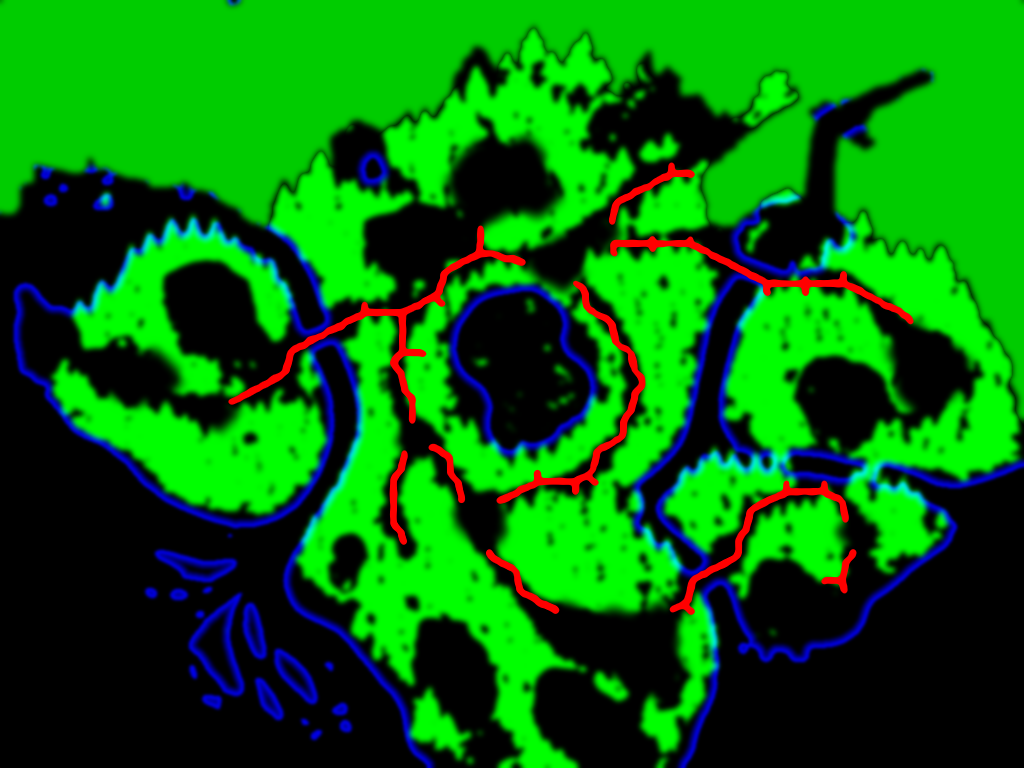
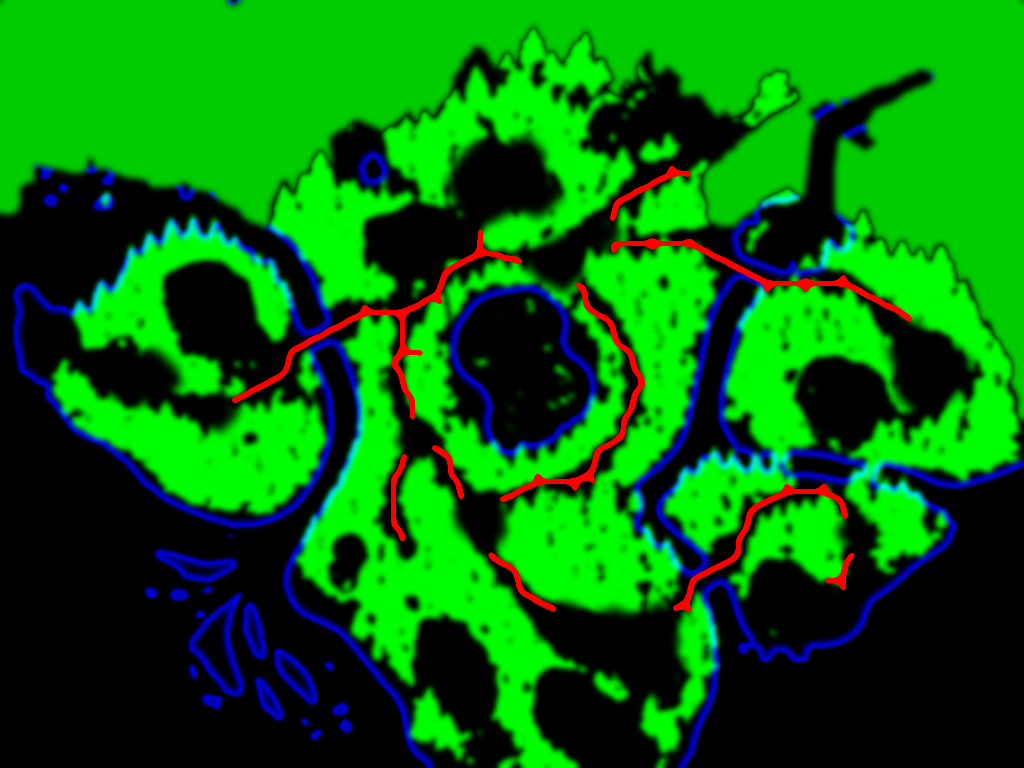
narrow even paths

diff --git a/board3d/board3d.js b/board3d/board3d.js
@@ -8,8 +8,8 @@ import { MapControls } from './map-controls.js?v=5';
 import { GLTFLoader } from './vendor/three/jsm/loaders/GLTFLoader.js';
 import * as SkeletonUtils from './vendor/three/jsm/utils/SkeletonUtils.js';
 import { mergeGeometries } from './vendor/three/jsm/utils/BufferGeometryUtils.js';
-import { buildAtmosphere } from './atmosphere.js?v=1792825844';
-import { buildTerrain } from './terrain.js?v=1792825844';
+import { buildAtmosphere } from './atmosphere.js?v=1792843114';
+import { buildTerrain } from './terrain.js?v=1792843114';
 
 const t0 = 0;   // считаем от начала навигации: HTML, three.js, карта, модели
 const MOVE_RANGE = 6;          // как сумма кубиков в обычном ходу
@@ -129,7 +129,7 @@ const terrain = await buildTerrain({
   groundTextures: {   // этап 2: рисованные текстуры земли (Codex) + карты смешивания (tools/board3d_splat.py)
     grass: './data/tex-grass.webp?v=1', path: './data/tex-path.webp?v=1', forest: './data/tex-forest.webp?v=1',
     beach: './data/tex-beach.webp?v=1', meadow: './data/tex-meadow.webp?v=1', dark: './data/tex-darkforest.webp?v=1',
-    splatA: './data/splat-a.png?v=7', splatB: './data/splat-b.png?v=7',
+    splatA: './data/splat-a.png?v=8', splatB: './data/splat-b.png?v=8',
   },
   waterDistUrl: './data/water-dist.png?v=2',   // этап 3: расстояние до берега для шейдера воды
   spireKitUrl: './models/spire-kit.glb?v=1',   // набор шпилей и кристаллов: шпили выключены (20.10), кристаллы сказочной поляны — нужны

diff --git a/board3d/terrain.js b/board3d/terrain.js
@@ -1282,7 +1282,7 @@ ${gtex ? `{
   vec2 pw = vec2(sin(vWorldPos.z * 1.9 + sin(vWorldPos.x * 1.3) * 1.7) + 0.5 * sin(vWorldPos.x * 4.7 - vWorldPos.z * 3.3),
                  sin(vWorldPos.x * 2.1 - sin(vWorldPos.z * 1.1) * 1.5) + 0.5 * sin(vWorldPos.z * 5.3 + vWorldPos.x * 2.9));
   vec4 sa = texture2D(g_splatA, vMapUv);
-  sa.r = texture2D(g_splatA, vMapUv + pw * vec2(0.0031, 0.0041)).r;  vec4 sb = texture2D(g_splatB, vMapUv);
+  sa.r = texture2D(g_splatA, vMapUv + pw * vec2(0.0008, 0.0010)).r;  vec4 sb = texture2D(g_splatB, vMapUv);   // 24.10: тропы ровные, как на концепте — сдвиг слабый  vec4 sb = texture2D(g_splatB, vMapUv);
   vec3 col = grass;
   if (sb.r > 0.01) col = mix(col, DT(g_meadow, tuv), sb.r);
   if (sa.g > 0.01) col = mix(col, DT(g_forest, tuv) * vec3(0.6, 0.62, 0.55), sa.g);   // под кронами темно (не газон)

diff --git a/board3d/index.html b/board3d/index.html
@@ -43,6 +43,6 @@
     <button data-act="bench">Тест FPS</button>
   </div>
 
-  <script type="module" src="./board3d.js?v=1792825844"></script>
+  <script type="module" src="./board3d.js?v=1792843114"></script>
 </body>
 </html>
